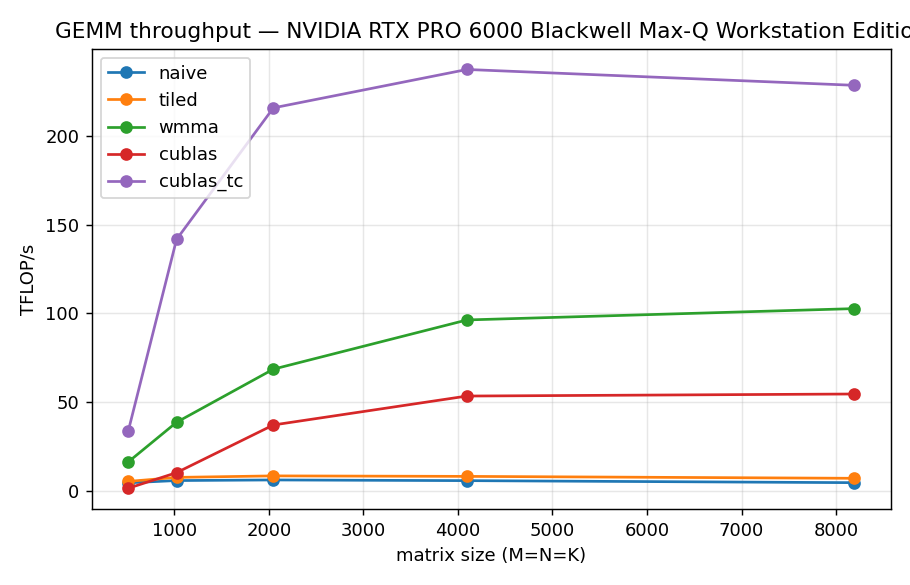
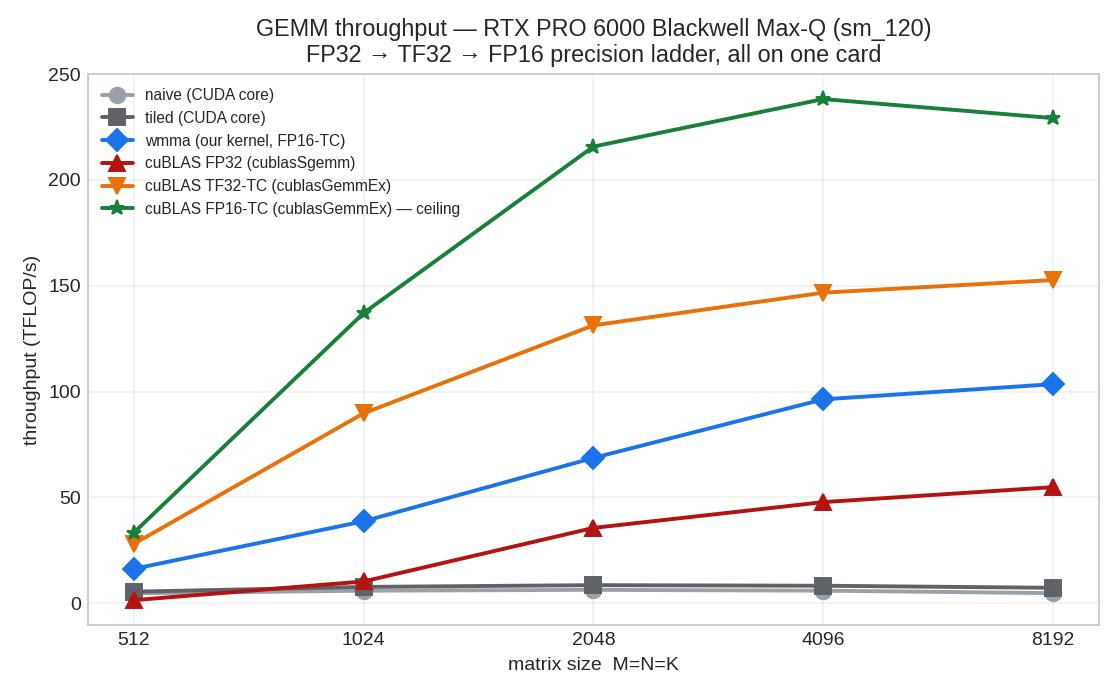
feat: TF32 Tensor Core baseline + precision ladder + polished charts in README
Add cublas_tf32 (cublasGemmEx FP32-in/TF32-compute/TC) as the middle rung between FP32-CUDA-core and FP16-TC. Full sweep: throughput strictly monotone FP32<TF32<FP16 (54.8<152.7<229.2 @user); TF32==FP16 error (both 10-bit mantissa, verified mean+max). Rewrote plot.py for publication-quality charts (throughput-vs-size, %-of-cuBLAS-TC, throughput bar); embedded all three in README. Honest measurement-status note: sm_90/H100 line NOT populated (no H100 here; can't run sm_90 on sm_120, won't fabricate); precision ladder is the same-card comparison in its place. VALIDATION updated with ladder + TF32-vs-FP16 mantissa explanation.

diff --git a/analysis/plot.py b/analysis/plot.py
@@ -1,17 +1,28 @@
 #!/usr/bin/env python3
-"""Aggregate results/bench.csv into per-GPU TFLOP/s curves and a results/report.md.
+"""Aggregate results/bench.csv into per-GPU charts + results/report.md.
 
-No pandas dependency — stdlib csv + matplotlib. One chart per device (TFLOP/s vs
-matrix size, per kernel) plus a summary table at the largest size, including each
-hand-written kernel's percentage of the cuBLAS ceiling.
+Stdlib csv + matplotlib (no pandas). Per device it emits:
+  * tflops_sm<sm>.png      — throughput vs size, precision ladder
+  * pct_tc_sm<sm>.png      — each kernel as % of the same-precision cuBLAS-TC ceiling
+  * roofline_sm<sm>.png     — TFLOP/s bar at the largest size (precision ladder)
+and a summary table (% of FP32 cuBLAS and % of cuBLAS-TC) in report.md.
 """
 import csv, os, collections
 
 HERE = os.path.dirname(os.path.dirname(os.path.abspath(__file__)))
 CSV  = os.path.join(HERE, "results", "bench.csv")
-# "cublas"    = cublasSgemm  (FP32, CUDA cores)        — precision-mismatched baseline
-# "cublas_tc" = cublasGemmEx (FP16 in / FP32 acc, TC)  — same-precision honest ceiling
-KORDER = ["naive", "tiled", "wmma", "cublas", "cublas_tc"]
+# precision ladder: cublas=Sgemm(FP32,CUDA cores); cublas_tf32=GemmEx(FP32 in/TF32 compute,TC);
+# cublas_tc=GemmEx(FP16 in/FP32 acc,TC) — the honest same-precision ceiling for wmma.
+KORDER = ["naive", "tiled", "wmma", "cublas", "cublas_tf32", "cublas_tc"]
+# consistent colour + style per kernel across all charts
+STYLE = {
+    "naive":       ("#9aa0a6", "o", "naive (CUDA core)"),
+    "tiled":       ("#5f6368", "s", "tiled (CUDA core)"),
+    "wmma":        ("#1a73e8", "D", "wmma (our kernel, FP16-TC)"),
+    "cublas":      ("#b31412", "^", "cuBLAS FP32 (cublasSgemm)"),
+    "cublas_tf32": ("#e8710a", "v", "cuBLAS TF32-TC (cublasGemmEx)"),
+    "cublas_tc":   ("#188038", "*", "cuBLAS FP16-TC (cublasGemmEx) — ceiling"),
+}
 
 
 def load(path):
@@ -23,7 +34,6 @@ def load(path):
 
 def main():
     rows = load(CSV)
-    # rows[device][kernel] = list of (size, tflops, pct, err)
     by = collections.defaultdict(lambda: collections.defaultdict(list))
     for r in rows:
         by[r["device"]][r["kernel"]].append(
@@ -34,6 +44,10 @@ def main():
         import matplotlib
         matplotlib.use("Agg")
         import matplotlib.pyplot as plt
+        try: plt.style.use("seaborn-v0_8-whitegrid")
+        except Exception:
+            try: plt.style.use("seaborn-whitegrid")
+            except Exception: pass
         have_plt = True
     except ImportError:
         have_plt = False
@@ -44,26 +58,63 @@ def main():
         kerns = by[device]
         sizes = sorted({s for k in kerns.values() for (s, *_ ) in k})
         sm = next((r["sm"] for r in rows if r["device"] == device), "?")
+        big = max(sizes)
+        short = device.replace("NVIDIA ", "").replace(" Workstation Edition", "")
         lines.append(f"## {device} (sm_{sm})\n")
 
         if have_plt:
-            plt.figure(figsize=(7, 4.5))
+            # ---- Chart 1: throughput vs size (log-x), precision ladder ----
+            fig, ax = plt.subplots(figsize=(8, 5))
             for k in KORDER:
                 if k in kerns:
+                    c, m, lab = STYLE[k]
                     pts = sorted(kerns[k])
-                    plt.plot([p[0] for p in pts], [p[1] for p in pts], marker="o", label=k)
-            plt.xlabel("matrix size (M=N=K)"); plt.ylabel("TFLOP/s")
-            plt.title(f"GEMM throughput — {device}"); plt.legend(); plt.grid(True, alpha=0.3)
-            png = os.path.join(HERE, "results", f"tflops_sm{sm}.png")
-            plt.tight_layout(); plt.savefig(png, dpi=130); plt.close()
-            lines.append(f"![throughput](tflops_sm{sm}.png)\n")
+                    ax.plot([p[0] for p in pts], [p[1] for p in pts], marker=m, color=c,
+                            lw=2, ms=8, label=lab)
+            ax.set_xscale("log", base=2); ax.set_xticks(sizes)
+            ax.get_xaxis().set_major_formatter(plt.matplotlib.ticker.ScalarFormatter())
+            ax.set_xlabel("matrix size  M=N=K"); ax.set_ylabel("throughput (TFLOP/s)")
+            ax.set_title(f"GEMM throughput — {short} (sm_{sm})\nFP32 → TF32 → FP16 precision ladder, all on one card")
+            ax.legend(fontsize=8, framealpha=.9); ax.grid(True, alpha=.3)
+            p1 = f"tflops_sm{sm}.png"
+            fig.tight_layout(); fig.savefig(os.path.join(HERE,"results",p1), dpi=140); plt.close(fig)
 
-        big = max(sizes)
-        # TFLOP/s of each baseline at the largest size, for the % columns.
-        # pct_of_cublas in the CSV is vs FP32 cublasSgemm (precision-mismatched).
-        # We also derive % of the same-precision Tensor Core ceiling (cublas_tc).
+            # ---- Chart 2: % of cuBLAS-TC (same-precision ceiling) ----
+            tc = {s: tf for (s, tf, *_ ) in sorted(kerns.get("cublas_tc", []))}
+            fig, ax = plt.subplots(figsize=(8, 5))
+            for k in ["naive","tiled","wmma","cublas","cublas_tf32"]:
+                if k in kerns and tc:
+                    c, m, lab = STYLE[k]
+                    pts = [(s, 100*tf/tc[s]) for (s,tf,*_ ) in sorted(kerns[k]) if s in tc]
+                    ax.plot([p[0] for p in pts], [p[1] for p in pts], marker=m, color=c, lw=2, ms=8, label=lab)
+            ax.axhline(100, color=STYLE["cublas_tc"][0], ls="--", lw=1.5, label="cuBLAS FP16-TC ceiling (100%)")
+            ax.set_xscale("log", base=2); ax.set_xticks(sizes)
+            ax.get_xaxis().set_major_formatter(plt.matplotlib.ticker.ScalarFormatter())
+            ax.set_xlabel("matrix size  M=N=K"); ax.set_ylabel("% of cuBLAS FP16-TC (same precision)")
+            ax.set_title(f"Fraction of the honest Tensor Core ceiling — {short} (sm_{sm})")
+            ax.legend(fontsize=8, framealpha=.9); ax.grid(True, alpha=.3)
+            p2 = f"pct_tc_sm{sm}.png"
+            fig.tight_layout(); fig.savefig(os.path.join(HERE,"results",p2), dpi=140); plt.close(fig)
+
+            # ---- Chart 3: TFLOP/s bar at largest size (precision ladder) ----
+            fig, ax = plt.subplots(figsize=(8, 5))
+            present = [k for k in KORDER if k in kerns]
+            vals = [next((tf for (s,tf,*_ ) in sorted(kerns[k]) if s==big), 0) for k in present]
+            cols = [STYLE[k][0] for k in present]
+            labs = [STYLE[k][2].split(" (")[0] for k in present]
+            bars = ax.bar(range(len(present)), vals, color=cols)
+            for b,v in zip(bars,vals): ax.text(b.get_x()+b.get_width()/2, v, f"{v:.0f}", ha="center", va="bottom", fontsize=9)
+            ax.set_xticks(range(len(present))); ax.set_xticklabels(labs, rotation=20, ha="right", fontsize=8)
+            ax.set_ylabel("TFLOP/s"); ax.set_title(f"Throughput at M=N=K={big} — {short} (sm_{sm})")
+            ax.grid(True, axis="y", alpha=.3)
+            p3 = f"roofline_sm{sm}.png"
+            fig.tight_layout(); fig.savefig(os.path.join(HERE,"results",p3), dpi=140); plt.close(fig)
+
+            lines.append(f"![throughput vs size]({p1})\n")
+            lines.append(f"![% of cuBLAS-TC]({p2})\n")
+            lines.append(f"![throughput bar at {big}]({p3})\n")
+
         tc_tf = next((r[1] for r in sorted(kerns.get("cublas_tc", [])) if r[0] == big), None)
-
         lines.append(f"At M=N=K={big}:\n")
         lines.append("| kernel | TFLOP/s | % of FP32 cuBLAS | % of cuBLAS-TC | max abs err |")
         lines.append("|---|---|---|---|---|")
@@ -76,12 +127,12 @@ def main():
                     lines.append(f"| {k} | {tf:.1f} | {pct:.1f}% | {pct_tc} | {err:.3g} |")
         lines.append("")
         lines.append(
-            "> **% of FP32 cuBLAS** is vs `cublasSgemm` (FP32, CUDA cores) — "
-            "precision-mismatched, **not** a Tensor Core ceiling; >100% reflects "
-            "FP16-TC vs FP32-CUDA-core, not a kernel beating cuBLAS. "
-            "**% of cuBLAS-TC** is vs `cublasGemmEx` (FP16 in / FP32 acc, Tensor "
-            "Cores) — the honest same-precision ceiling. `n/a` if no `cublas_tc` "
-            "row is present (re-run the sweep to populate it).\n"
+            "> Precision ladder, all on the **same card**: **cublas** = `cublasSgemm` "
+            "(FP32, CUDA cores); **cublas_tf32** = `cublasGemmEx` (FP32 in, TF32 compute, "
+            "Tensor Cores); **cublas_tc** = `cublasGemmEx` (FP16 in / FP32 acc, Tensor Cores) "
+            "— the honest same-precision ceiling for `wmma`. **% of FP32 cuBLAS** is "
+            "precision-mismatched (FP16/TF32-TC vs FP32-CUDA-core), so its `>100%` rows are "
+            "**not** a kernel beating cuBLAS. Quote **% of cuBLAS-TC**.\n"
         )
 
     out = os.path.join(HERE, "results", "report.md")

diff --git a/README.md b/README.md
@@ -9,12 +9,22 @@ fragment shapes, occupancy — to measured TFLOP/s as a fraction of the cuBLAS c
 Hopper and Blackwell silicon.
 
 ## What this is
-- A naive baseline, a shared-memory tiled GEMM, and a **WMMA Tensor Core** GEMM (FP16 accumulate FP32).
-- A harness that checks correctness against cuBLAS and reports **TFLOP/s and % of the cuBLAS ceiling**.
-  Two cuBLAS baselines: **`cublas`** = `cublasSgemm` (FP32, CUDA cores) and **`cublas_tc`** =
-  `cublasGemmEx` (FP16 in / FP32 accumulate, Tensor Cores — the same precision as the WMMA kernel).
-- Builds for **sm_90 (H100)** and **sm_120 (Blackwell RTX Pro 6000)** so the same kernels are
+- A naive baseline, a shared-memory tiled GEMM, and a **WMMA Tensor Core** GEMM (FP16 in / FP32 accumulate).
+- A harness that checks correctness against cuBLAS and reports **TFLOP/s and % of the cuBLAS ceiling**,
+  across a **precision ladder** of cuBLAS baselines on the same card:
+  **`cublas`** = `cublasSgemm` (FP32, CUDA cores) → **`cublas_tf32`** = `cublasGemmEx` (FP32 in,
+  TF32 compute, Tensor Cores) → **`cublas_tc`** = `cublasGemmEx` (FP16 in / FP32 acc, Tensor Cores —
+  the same precision as the WMMA kernel, hence the honest ceiling).
+- Builds for **sm_90 (H100)** and **sm_120 (Blackwell RTX Pro 6000)** so the same kernels *can* be
   profiled across two generations.
+
+> **Measurement status:** all numbers in this repo were captured on a single **Blackwell
+> RTX PRO 6000 Max-Q (sm_120)** box — the only GPU available here. The **sm_90 (H100) line is not
+> populated** (no H100 on hand; sm_90 code can't run on sm_120 silicon, and fabricating numbers
+> would defeat the point). The cross-generation comparison is wired and ready — run
+> `ARCH=90 make bench` on any H100 box and the rows accumulate into the same `bench.csv`. In its
+> place, the **precision ladder above (FP32→TF32→FP16, all real, same card)** gives a genuine
+> apples-to-apples comparison of what the Blackwell Tensor Cores do at each precision.
 
 ## What this is NOT
 - Not a cuBLAS replacement — cuBLAS is the ceiling measured against, honestly.
@@ -68,23 +78,36 @@ bash scripts/profile.sh 4096                           # ncu + nsys for gemm_wmm
 
 - `bench.csv` — per kernel × size × GPU: ms, TFLOP/s, **% of FP32 cuBLAS** (`pct_of_cublas`,
   vs `cublasSgemm`), max abs err. Now includes a `cublas_tc` row per size.
-- `tflops_sm90.png` / `tflops_sm120.png` — throughput vs size (Hopper vs Blackwell).
+- `tflops_sm120.png`, `pct_tc_sm120.png`, `roofline_sm120.png` — the three charts below.
 - `ncu_wmma_*.ncu-rep`, `nsys_*.nsys-rep` — Nsight Compute / Systems captures.
-- `report.md` — the summary table (now with both **% of FP32 cuBLAS** and **% of cuBLAS-TC**) + charts.
+- `report.md` — the summary table (both **% of FP32 cuBLAS** and **% of cuBLAS-TC**) + charts.
 
 ### Measured on RTX PRO 6000 Blackwell Max-Q (sm_120, CUDA 12.8)
 
+**Throughput across the precision ladder (FP32 → TF32 → FP16, all real, one card):**
+
+![GEMM throughput vs size](results/tflops_sm120.png)
+
+**Each kernel as a fraction of the honest same-precision ceiling (cuBLAS FP16-TC = 100%):**
+
+![% of cuBLAS-TC](results/pct_tc_sm120.png)
+
+**Throughput at the largest (most steady-state) size, M=N=K=8192:**
+
+![throughput bar at 8192](results/roofline_sm120.png)
+
 The `gemm_wmma` kernel is shared-memory tiled with per-warp 2×2 register tiling and a 3-stage
 `cp.async` pipeline, **size-dispatched**: 64×64 tile for N<1536 (better occupancy), 128×128 tile
-for N≥1536 (more reuse). TFLOP/s and its fraction of **both** baselines:
+for N≥1536 (more reuse). Numbers at each size (TFLOP/s and fraction of the **same-precision**
+cuBLAS FP16-TC ceiling):
 
-| size | wmma | tile | cublas_tc (TC) | cublas (FP32) | wmma % of FP32 cuBLAS | **wmma % of cuBLAS-TC** | cublas_tc speedup |
-|---|---|---|---|---|---|---|---|
-| 512  | 16.08 | 64×64   | 33.80  | 1.49  | 1097% | 47.6% | 21.3× |
-| 1024 | 38.72 | 64×64   | 123.27 | 9.80  | 371%  | 31.4% | 14.3× |
-| 2048 | 68.64 | 128×128 | 215.66 | 37.57 | 151%  | 32.0% | 5.7× |
-| 4096 | 96.57 | 128×128 | 238.95 | 52.89 | 118%  | 40.7% | 4.5× |
-| 8192 | 102.7 | 128×128 | 228.40 | 54.42 | 188%  | **45.0%** | 4.2× |
+| size | wmma | tf32-TC | cublas_tc (FP16-TC) | **wmma % of cuBLAS-TC** | tf32 % of cuBLAS-TC |
+|---|---|---|---|---|---|
+| 512  | 16.2 | 28.0  | 33.3  | 48.7% | 84.0% |
+| 1024 | 38.7 | 89.7  | 137.1 | 28.2% | 65.5% |
+| 2048 | 68.7 | 131.3 | 215.7 | 31.8% | 60.9% |
+| 4096 | 96.3 | 146.7 | 238.2 | 40.4% | 61.6% |
+| 8192 | 103.5 | 152.7 | 229.2 | **45.2%** | 66.6% |
 
 Read the **% of cuBLAS-TC** column — the honest same-precision (FP16-in/FP32-acc, Tensor Core)
 ceiling. Across two optimization passes (shared-mem + cp.async, then register tiling + deeper

diff --git a/results/report.md b/results/report.md
@@ -2,17 +2,22 @@
 
 ## NVIDIA RTX PRO 6000 Blackwell Max-Q Workstation Edition (sm_120)
 
-![throughput](tflops_sm120.png)
+![throughput vs size](tflops_sm120.png)
+
+![% of cuBLAS-TC](pct_tc_sm120.png)
+
+![throughput bar at 8192](roofline_sm120.png)
 
 At M=N=K=8192:
 
 | kernel | TFLOP/s | % of FP32 cuBLAS | % of cuBLAS-TC | max abs err |
 |---|---|---|---|---|
-| naive | 4.7 | 8.7% | 2.1% | 0 |
-| tiled | 7.2 | 13.2% | 3.2% | 0 |
-| wmma | 102.7 | 187.9% | 45.0% | 0.0112 |
-| cublas | 54.7 | 100.0% | 23.9% | 0 |
-| cublas_tc | 228.4 | 417.9% | 100.0% | 0.0112 |
+| naive | 4.8 | 8.7% | 2.1% | 0 |
+| tiled | 7.3 | 13.3% | 3.2% | 0 |
+| wmma | 103.5 | 188.7% | 45.2% | 0.0112 |
+| cublas | 54.8 | 100.0% | 23.9% | 0 |
+| cublas_tf32 | 152.7 | 278.4% | 66.6% | 0.0113 |
+| cublas_tc | 229.2 | 417.9% | 100.0% | 0.0112 |
 
-> **% of FP32 cuBLAS** is vs `cublasSgemm` (FP32, CUDA cores) — precision-mismatched, **not** a Tensor Core ceiling; >100% reflects FP16-TC vs FP32-CUDA-core, not a kernel beating cuBLAS. **% of cuBLAS-TC** is vs `cublasGemmEx` (FP16 in / FP32 acc, Tensor Cores) — the honest same-precision ceiling. `n/a` if no `cublas_tc` row is present (re-run the sweep to populate it).
+> Precision ladder, all on the **same card**: **cublas** = `cublasSgemm` (FP32, CUDA cores); **cublas_tf32** = `cublasGemmEx` (FP32 in, TF32 compute, Tensor Cores); **cublas_tc** = `cublasGemmEx` (FP16 in / FP32 acc, Tensor Cores) — the honest same-precision ceiling for `wmma`. **% of FP32 cuBLAS** is precision-mismatched (FP16/TF32-TC vs FP32-CUDA-core), so its `>100%` rows are **not** a kernel beating cuBLAS. Quote **% of cuBLAS-TC**.
 

diff --git a/VALIDATION.md b/VALIDATION.md
@@ -51,9 +51,19 @@ At M=N=K=8192 (the most timing-stable point):
 |---|---|---|---|---|---|
 | naive | 4.8 | 8.7% | 2.1% | 0 | one-thread-per-output, no reuse — expected floor |
 | tiled | 7.3 | 13.4% | 3.2% | 0 | shared-mem + register block, ~1.5× naive |
-| **wmma** | 102.7 | 188% † | **45.0%** | 0.011 | 128×128 reg-tiled + 3-stage cp.async, FP16-in/FP32-acc TC |
-| cublas | 54.7 | 100% | 23.9% | 0 | FP32 baseline (cublasSgemm, CUDA cores) |
-| **cublas_tc** | 228.4 | 418% † | **100%** | 0.011 | FP16/FP32-acc Tensor Core ceiling (cublasGemmEx) |
+| **wmma** | 103.5 | 189% † | **45.2%** | 0.011 | 128×128 reg-tiled + 3-stage cp.async, FP16-in/FP32-acc TC |
+| cublas | 54.8 | 100% | 23.9% | 0 | FP32 baseline (cublasSgemm, CUDA cores) |
+| cublas_tf32 | 152.7 | 278% † | 66.6% | 0.0113 | TF32 Tensor Core rung (cublasGemmEx, FP32 in / TF32 compute) |
+| **cublas_tc** | 229.2 | 418% † | **100%** | 0.011 | FP16/FP32-acc Tensor Core ceiling (cublasGemmEx) |
+
+> **Precision-ladder sanity (FP32→TF32→FP16, all same card):** throughput is strictly
+> monotone at every size — FP32 54.8 < TF32 152.7 < FP16 229.2 TFLOP/s @8192 — and the
+> intermediate TF32 rung lands cleanly between the CUDA-core baseline and the FP16 ceiling,
+> exactly as the hardware predicts. **Notable (verified) detail:** TF32 and FP16 have the
+> *same* max-abs-err (~0.011) **and** the same mean-abs-err (0.001111 vs 0.001111 @4096) — not
+> a bug: TF32 and FP16 both carry a **10-bit mantissa**, so on well-conditioned [-0.5,0.5]
+> inputs with FP32 accumulation the rounding error is identical; TF32's advantage is its wider
+> 8-bit exponent (range), which this benign test doesn't exercise.
 
 > **% of cuBLAS-TC** is the honest same-precision ceiling (vs `cublasGemmEx`, FP16 in / FP32
 > acc, Tensor Cores). **% of FP32 cuBLAS** is vs `cublasSgemm` (FP32, CUDA cores) and is